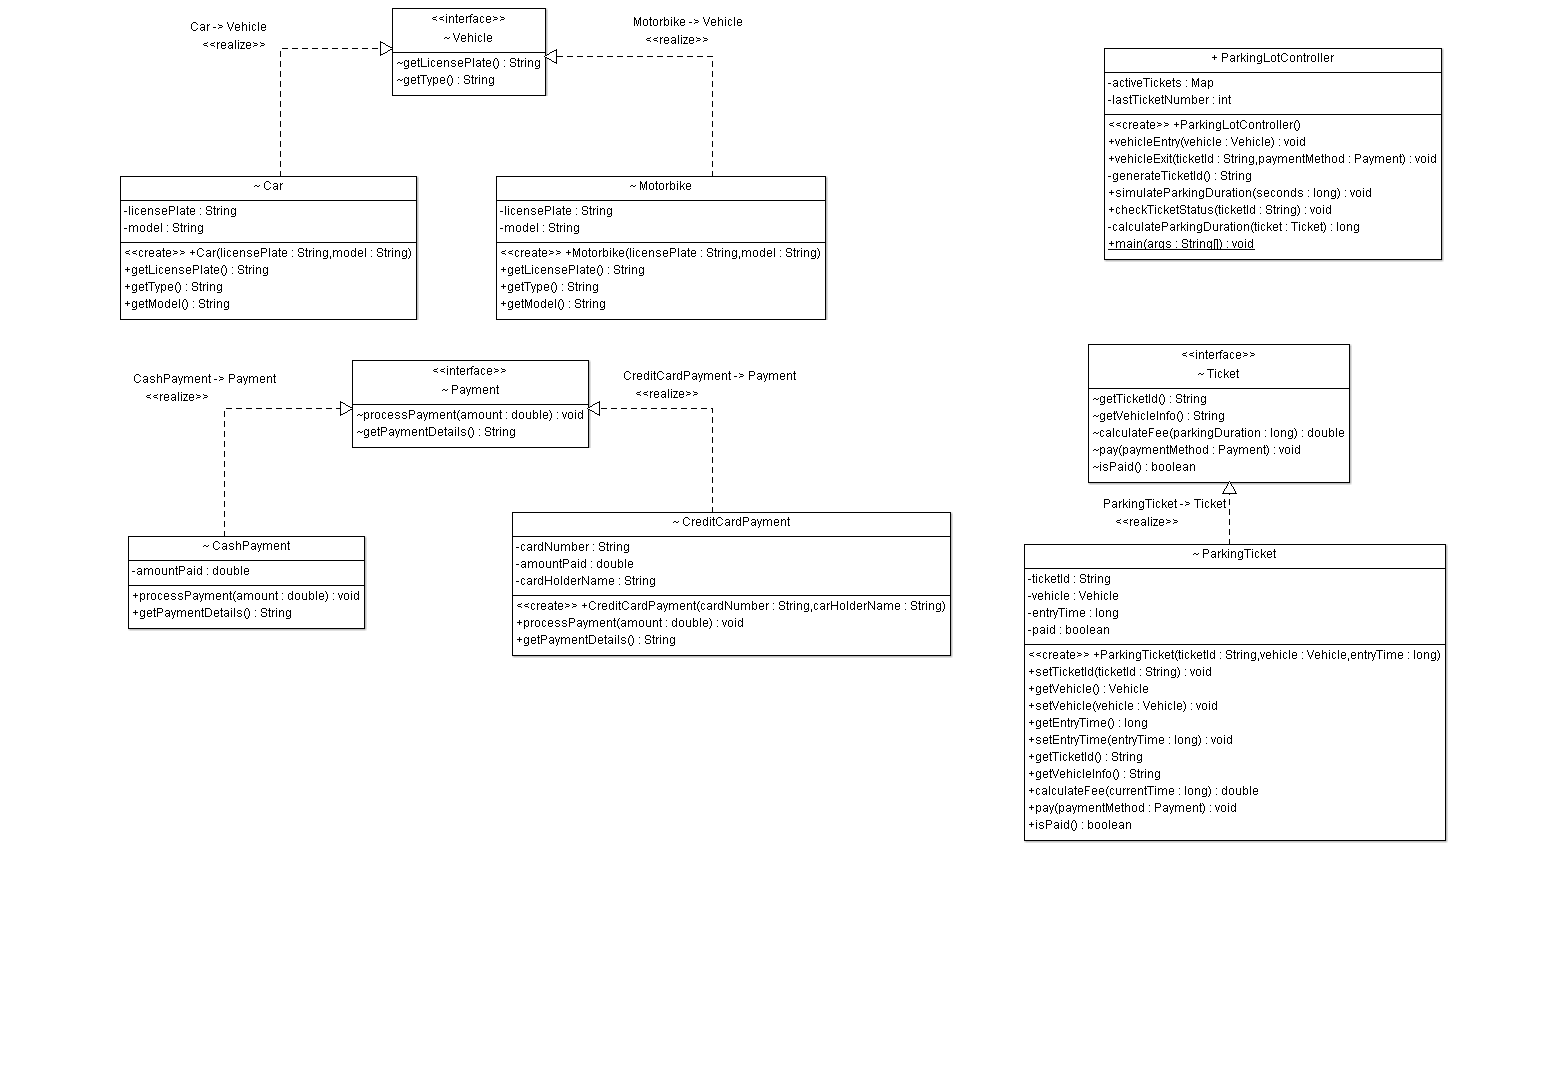
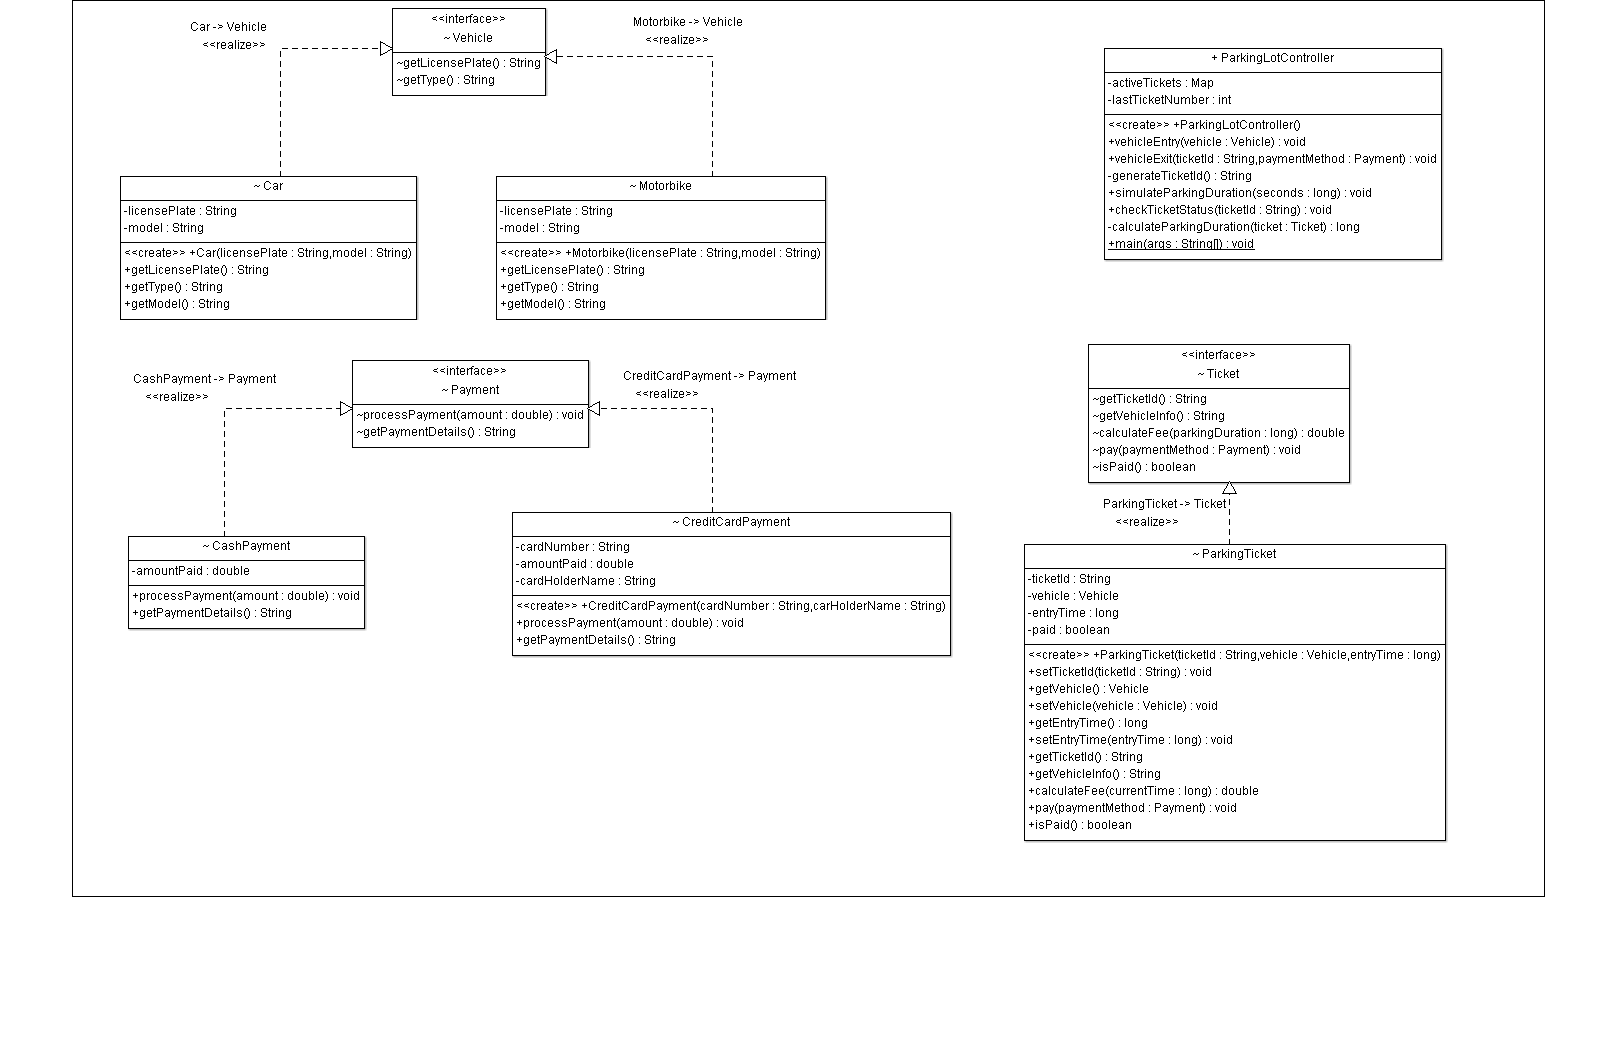
[FIx] Portifolio A - README: Fix backgroud of diagram image

diff --git a/Portifólio A/README.md b/Portifólio A/README.md
@@ -1,7 +1,7 @@
 
 ### Kauã Souza Maia - 536732
 
-## LISTA DE EXERCÍCIOS – POO e UML INTRODUTÓRIAS 
+## [LISTA DE EXERCÍCIOS – POO e UML INTRODUTÓRIAS (link para Repositório)](https://github.com/Hactchubas/POO_git/tree/master/Portifólio%20A) 
 
 1. ####  Descreva, com suas palavras, o que são classes, objetos e instâncias. Dê exemplos:<hr>
  - <b>Classes:</b> São definições genéricas de partes reutilizáveis do nosso código, são elementos base da programação orientada a objetos, e funcionam para determinar a estrutura, relacionamentos e funcionalidades de partes do código.
@@ -236,4 +236,4 @@ app de investimentos; agenda pessoal; carteira de criptomoedas; controle de pont
 de um shopping; locadora de jogos físicos para consoles de videogame; posto de gasolina; farmácia; controle de
 acesso a um prédio inteligente.
 
-<img src="./Diagram/Q7_classes.png" alt="Diagram of the Parking Lot Classes" style="background-color:white;" />
+<img src="./Diagram/Q7_classes.png" alt="Diagram of the Parking Lot Classes" />
